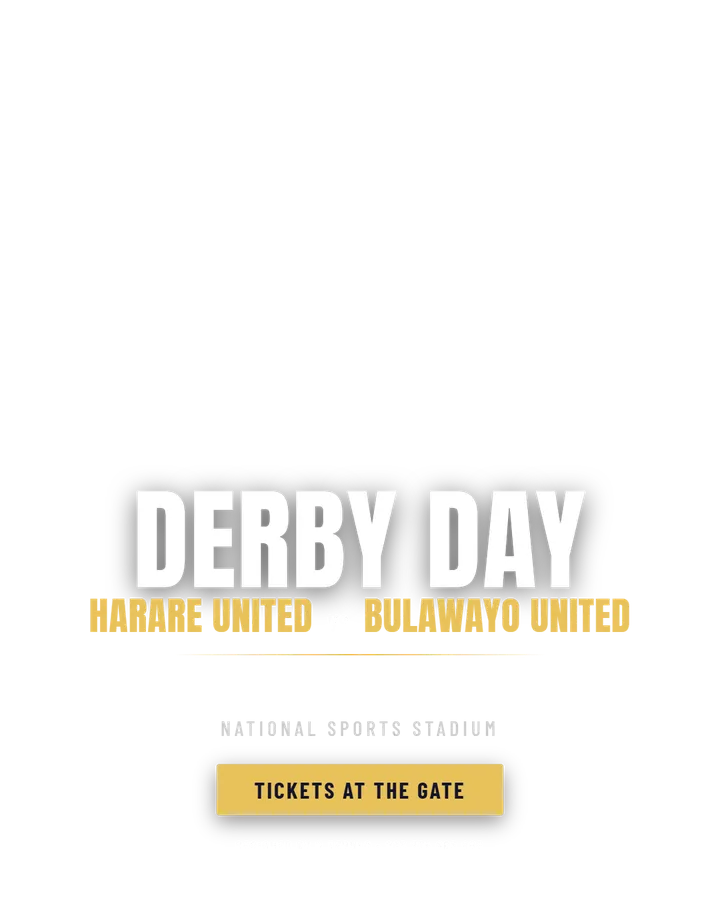
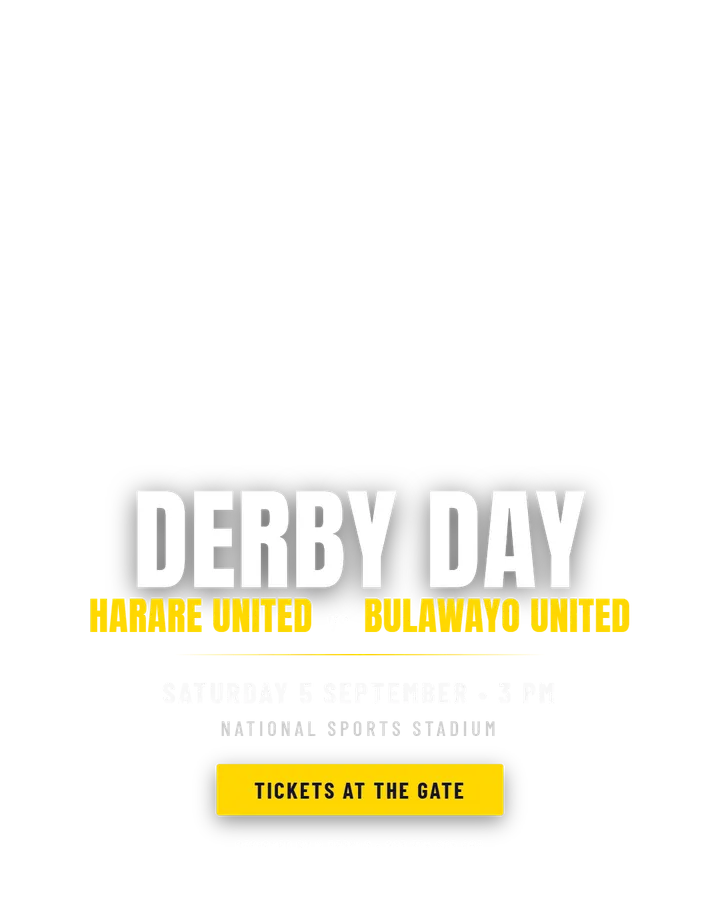
Fix Zim@47 licensing and re-sync the Derby Day layer kit
Zim@47: the flame medallion was a Getty/AFP press photo the kit itself
marked "never publish without a licence" — publishing it on a public
portfolio is exactly that. Redrew the medallion as original artwork in
the poster's own gold, recomposited the poster, regenerated the cover,
and added the redraw as a build step so the decision is part of the
story. Credits updated; the press photo no longer ships.

Derby Day: the layer kit rebuilt to an older version than the delivered
final — stale date (29 Aug vs 5 September) and a duller gold (#e8c15a
vs the #FFD700 in the final and the README). Remapped the gold in
layers 05/06 and replaced the date line; the stack now composites to
the final pixel-for-pixel.

Changed region(s): [[0.275, 0.84, 0.7028, 0.9333], [0.4889, 0.6533, 0.8861, 0.7156], [0.1222, 0.6533, 0.4278, 0.7156]]

diff --git a/src/data/fallbackDesigns.js b/src/data/fallbackDesigns.js
@@ -126,6 +126,7 @@ export const FALLBACK_DESIGNS = [
       steps: [
         { src: '/designs/zim47/sources/gz-tower-graded.jpg', label: 'Grade the tower', note: 'Fanny Schertzer\u2019s CC BY 3.0 photo of the conical tower: desaturate 65% \u2192 #4e6152 multiply \u2192 gold soft-light from top-left \u2192 deepen 28%. The photo now belongs to the palette.' },
         { src: '/designs/zim47/sources/zim-bird-star.webp', label: 'Extract the emblem', note: 'The bird and star lifted from the public-domain flag \u2014 used as a 14% watermark, not a logo.' },
+        { src: '/designs/zim47/sources/flame-emblem.webp', label: 'Draw the flame', note: 'The first version used a press photo of the Independence Flame. A photo I can\u2019t licence can\u2019t ship, so the medallion was redrawn from scratch in the poster\u2019s own gold \u2014 flat, iconographic, and mine to use.' },
         { src: '/designs/zim47-independence.jpg', label: 'Type and facts', note: 'Mirrored 12 px flag stripe band at the top, ZIM@47 in Anton, Uhuru \u2022 Inkululeko \u2022 Rusununguko, and the bordered strip with the real 2027 flame route.' },
       ],
     },
@@ -133,11 +134,12 @@ export const FALLBACK_DESIGNS = [
       'Ration national colours: each colour gets one job or the poster turns into bunting.',
       'Specific facts beat generic slogans \u2014 Gonakudzingwa \u2192 Jenya \u2192 Rutenga is the story.',
       'Trilingual by default: Shona, Ndebele, English.',
+      'If an image can\u2019t be licensed for the client\u2019s actual use, it doesn\u2019t go in the artwork \u2014 redraw it.',
     ],
     credits: [
       'Great Zimbabwe tower \u2014 Fanny Schertzer, CC BY 3.0 (graded)',
       'Bird emblem \u2014 extracted from the public-domain flag',
-      'Flame medallion \u2014 Getty/AFP press photo, portfolio use only',
+      'Flame emblem \u2014 original artwork drawn for this poster',
       'Fonts \u2014 Google Fonts, free for commercial use',
     ],
     files: files['zim47-independence'],
@@ -447,6 +449,7 @@ export const FALLBACK_DESIGNS = [
       'Main stack bottom-anchored, 72 px from the bottom, centred.',
       'Hierarchy: headline about 3\u00d7 the team line. Squint \u2014 DERBY DAY must read first.',
       'Works on Facebook feed (4:5 is the max portrait ratio) and Instagram portrait.',
+      'Layers stay in sync with the final \u2014 a kit that rebuilds to an older version is a kit that ships the wrong date.',
     ],
     credits: [
       'Photo \u2014 Dominic Nelson, Wikimedia Commons, CC BY-SA 4.0',
